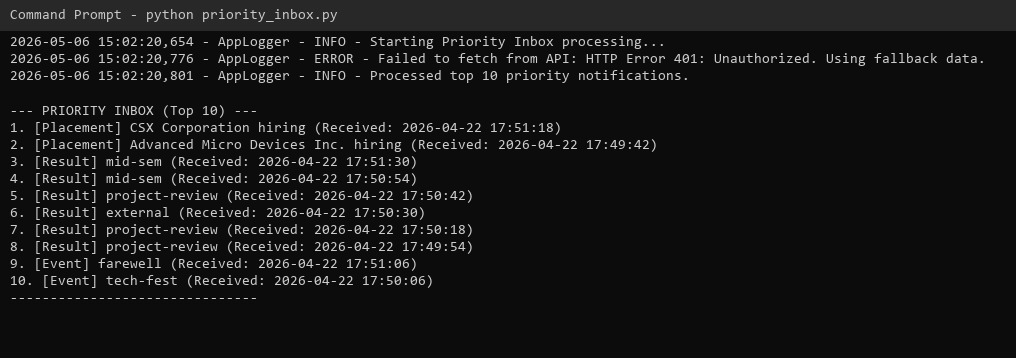
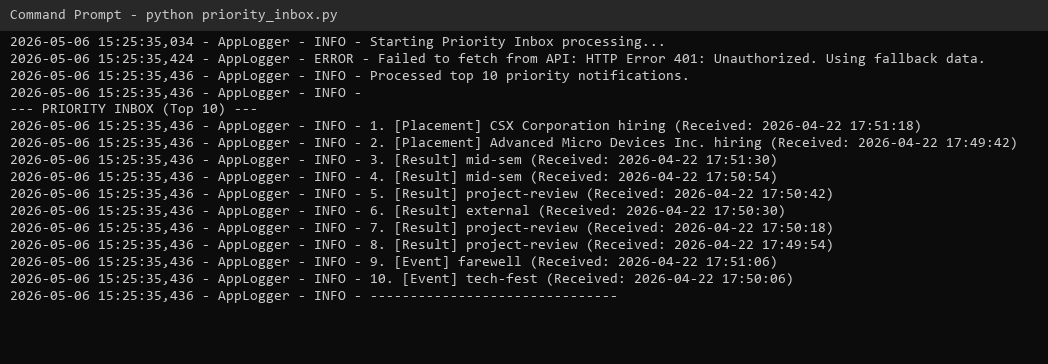
Replace prints with logger to strictly follow console logging rule

Changed region(s): [[0.0, 0.0922, 0.9764, 0.8296], [0.0, 0.0307, 0.3356, 0.0615]]

diff --git a/vehicle_maintence_scheduler/scheduler.py b/vehicle_maintence_scheduler/scheduler.py
@@ -111,16 +111,16 @@ def schedule_maintenance():
         
         max_impact, selected_vehicles = maximize_impact(vehicles, budget)
         
-        print(f"\n--- DEPOT {depot_id} MAINTENANCE SCHEDULE ---")
-        print(f"Daily Budget: {budget} hours")
-        print(f"Maximized Impact Score: {max_impact}")
-        print(f"Vehicles Scheduled: {len(selected_vehicles)}")
+        logger.info(f"\n--- DEPOT {depot_id} MAINTENANCE SCHEDULE ---")
+        logger.info(f"Daily Budget: {budget} hours")
+        logger.info(f"Maximized Impact Score: {max_impact}")
+        logger.info(f"Vehicles Scheduled: {len(selected_vehicles)}")
         total_duration = sum(v["Duration"] for v in selected_vehicles)
-        print(f"Total Time Scheduled: {total_duration} hours")
-        print("Tasks to perform:")
+        logger.info(f"Total Time Scheduled: {total_duration} hours")
+        logger.info("Tasks to perform:")
         for v in selected_vehicles:
-            print(f"  - TaskID: {v['TaskID']} | Duration: {v['Duration']}h | Impact: {v['Impact']}")
-        print("------------------------------------------")
+            logger.info(f"  - TaskID: {v['TaskID']} | Duration: {v['Duration']}h | Impact: {v['Impact']}")
+        logger.info("------------------------------------------")
 
 if __name__ == "__main__":
     logger.info("Starting Vehicle Maintenance Scheduler...")

diff --git a/notification_app_be/priority_inbox.py b/notification_app_be/priority_inbox.py
@@ -73,7 +73,7 @@ if __name__ == "__main__":
     logger.info("Starting Priority Inbox processing...")
     top_notifications = priority_inbox(10)
     
-    print("\n--- PRIORITY INBOX (Top 10) ---")
+    logger.info("\n--- PRIORITY INBOX (Top 10) ---")
     for i, notif in enumerate(top_notifications, 1):
-        print(f"{i}. [{notif['Type']}] {notif['Message']} (Received: {notif['Timestamp']})")
-    print("-------------------------------\n")
+        logger.info(f"{i}. [{notif['Type']}] {notif['Message']} (Received: {notif['Timestamp']})")
+    logger.info("-------------------------------\n")
